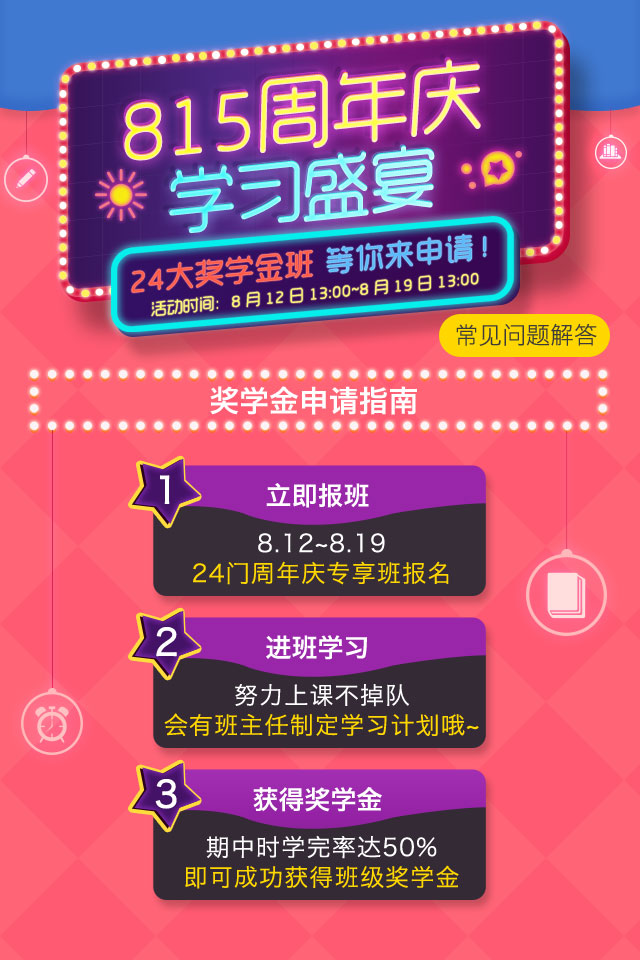
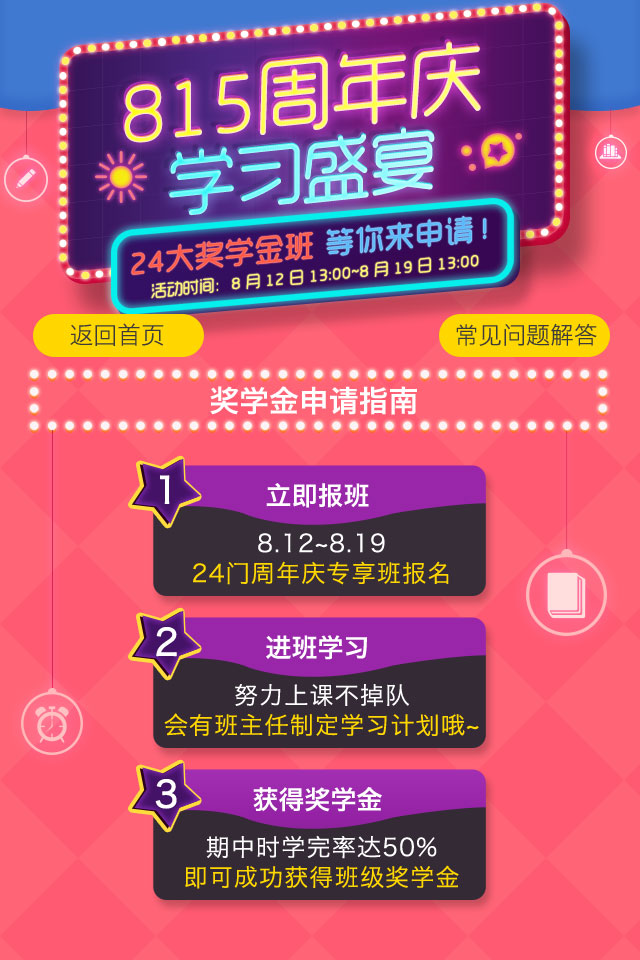
Bob:add back dafuweng

Changed region(s): [[0.0312, 0.0, 0.9375, 0.375]]

diff --git a/index.html b/index.html
@@ -28,6 +28,7 @@
 
 			<div class="pt-page pt-page-1">
 				<img class="autofit_window_bg" src="img/bg.jpg" alt="815周年庆学习盛宴 24大奖学金班等你来拿" />
+                <a href="http://app.class.hujiang.com/classzt/2014dahuweng_m " class="clever backhome">回到首页</a>
 				<a href="#" class="clever question">常见问题</a>
 				<a href="#" class="clever step1">立即报班</a>
 				<a href="#" class="clever step2">进班学习</a>
@@ -46,7 +47,7 @@
 			
              <div class="pt-page pt-page-3">
                 <div class="header">
-                    <a href="#" class="home">首页</a>
+                    <a href="#" class="home">返回</a>
                     <div class="mask">
                     <ul class="menu">
                         <li class="selected"><a href="#">一试英语</a></li>

diff --git a/css/style.css b/css/style.css
@@ -34,11 +34,27 @@ img.autofit_window_bgheight {
 	text-indent: -2000em;
 
 }
-a.question {
-	width: 175px;
+a.backhome {
+
+	width: 262.5px;
+	height: 67.5px;
+	margin-left: 20px;
+	margin-top: 290px;*/
+/*	width: 175px;
 	height: 45px;
-	margin-left: 435px;
-	margin-top: 313px;
+	margin-left: 30px;
+	margin-top: 307px;*/
+}
+a.question {
+
+	width: 262.5px;
+	height: 67.5px;
+	margin-left: 400px;
+	margin-top: 290px;*/
+/*	width: 175px;
+	height: 45px;
+	margin-left: 431px;
+	margin-top: 307px;*/
 }
 
 a.step1 {
